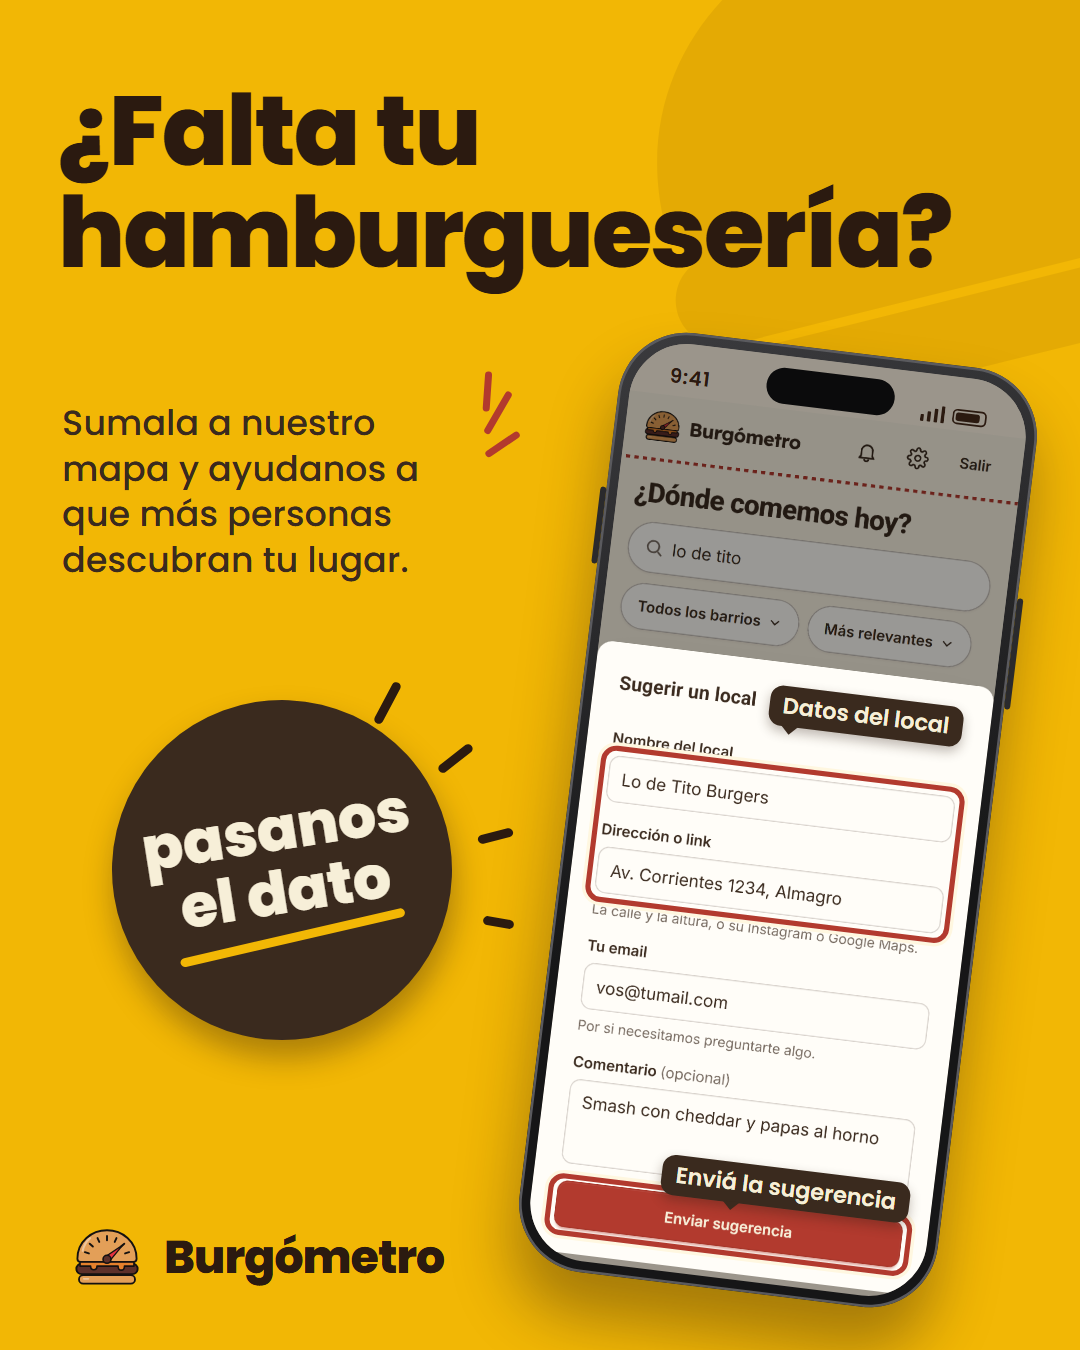
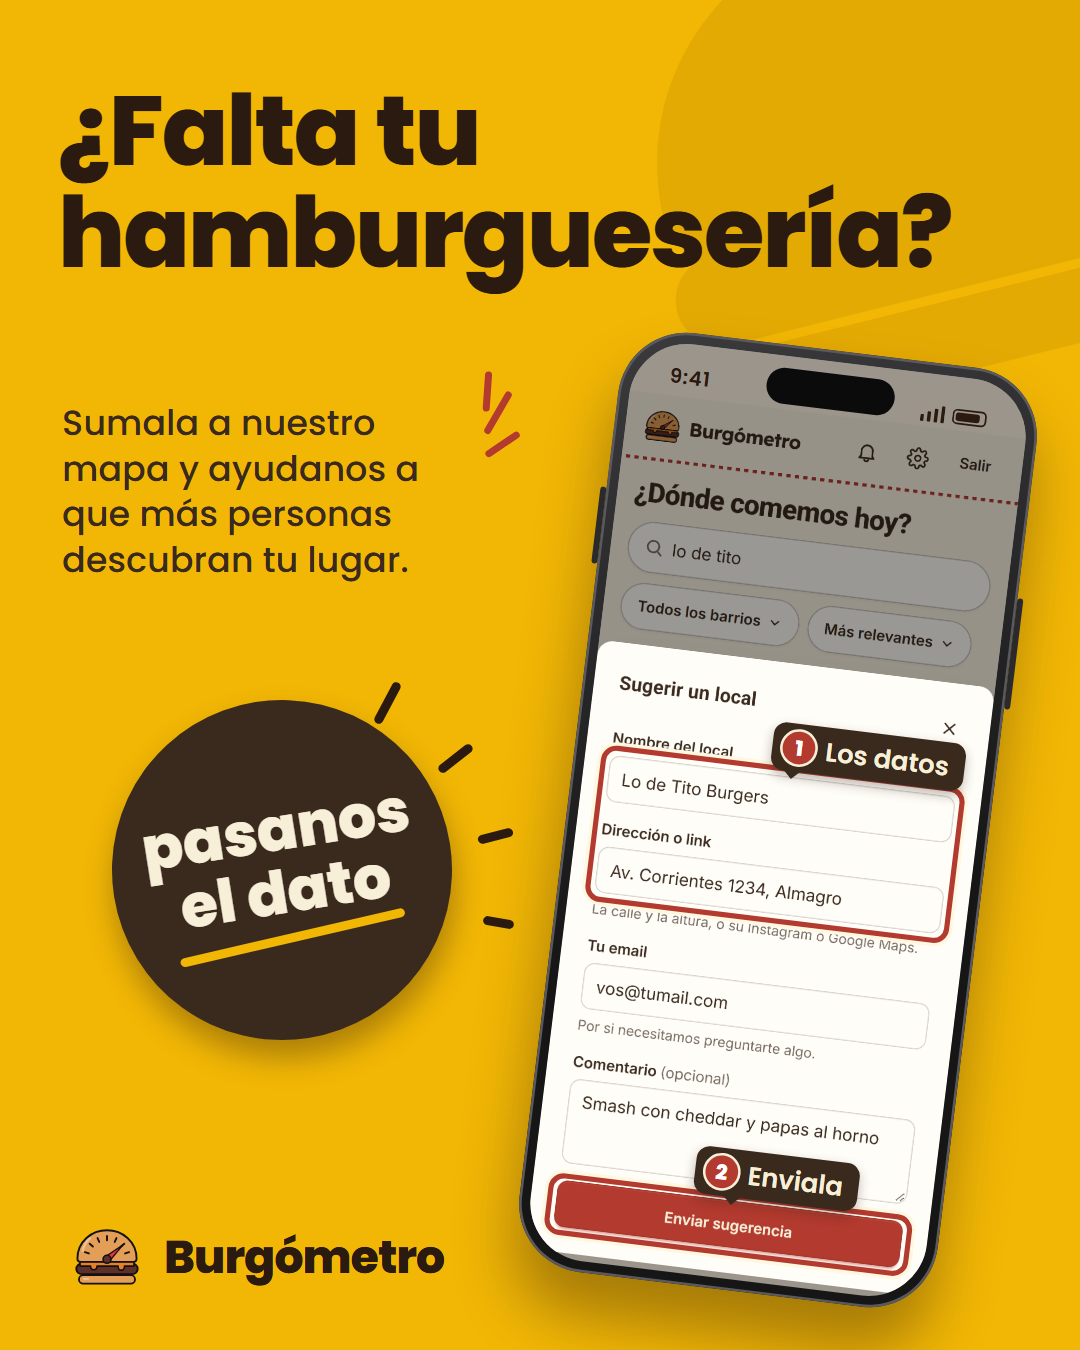
Post de Instagram: instalar en Android (claro) y en iPhone, pasos en rojo y repaso de las láminas
La lámina de instalar se separa en Android (tema claro, pasos reales de Chrome) y iPhone
(Safari: 3 puntitos, Compartir, Agregar a Inicio). Los pasos van numerados en rojo en los
globos, más grandes, y se reubicaron los que tapaban texto de las capturas.

Changed region(s): [[0.7028, 0.4978, 0.9167, 0.5911], [0.6111, 0.84, 0.8556, 0.9333]]

diff --git a/docs/post-ig/README.md b/docs/post-ig/README.md
@@ -1,13 +1,14 @@
 # Carrusel de Instagram (#272)
 
-Nueve láminas en dos formatos: `laminas/` en 4:5 (1080×1350, el del carrusel del feed) y `laminas-9x16/` en 9:16 (1080×1920, para historias, con lo importante dentro de la zona segura: sin nada clave en los ~250 px de arriba y abajo). El celu se ve entero en las dos con las funciones principales de Burgómetro. Estilo C
+Diez láminas en dos formatos: `laminas/` en 4:5 (1080×1350, el del carrusel del feed) y `laminas-9x16/` en 9:16 (1080×1920, para historias, con lo importante dentro de la zona segura: sin nada clave en los ~250 px de arriba y abajo). El celu se ve entero en las dos con las funciones principales de Burgómetro. Estilo C
 (amarillo tipográfico), con la plantilla que armó Juan.
 
 | Lámina | Archivo | Qué muestra |
 |---|---|---|
 | 1 | `laminas/01-portada.png` | Portada, con Explorar |
 | 2 | `laminas/02-sugerir-local.png` | Sugerir un local |
-| 3 | `laminas/03-instalar.png` | Instalar la web: Android (Chrome) tres puntitos > «Instalar y crear acceso directo» > «Instalar»; iPhone (Safari) Compartir > «Agregar a inicio» (menú ilustrado, con los nombres reales de Chrome) |
+| 3a | `laminas/03a-instalar-android.png` | Android (Chrome): 3 puntitos de arriba > «Instalar y crear acceso directo» > «Instalar» (menú ilustrado en tema claro, con los nombres reales) |
+| 3b | `laminas/03b-instalar-iphone.png` | iPhone (Safari): 3 puntitos de abajo > «Compartir» > «Agregar a Inicio» (menú y hoja de compartir ilustrados) |
 | 4 | `laminas/04-recorrido.png` | Armar un recorrido (Tour) |
 | 5 | `laminas/05-buscar-gente.png` | Buscar gente (nombres de ejemplo) |
 | 6 | `laminas/06-avatar.png` | Armar tu hamburguesa |
@@ -31,6 +32,6 @@ en Buenos Aires y alrededores».
 
 La lámina 9 muestra «Compartir en historias» (#278), ya en main; el local, el usuario y la reseña de la imagen son inventados y la imagen se generó con el mismo código de la web.
 
-Las láminas 3 y 9 asumen que el manifest (#281) ya está deployado: sin él, Chrome en Android solo ofrece
+Las láminas 3a, 3b y 9 asumen que el manifest (#281) ya está deployado: sin él, Chrome en Android solo ofrece
 «Agregar a la pantalla principal», con un ícono común, y no «Instalar». **No publiques el post antes del deploy del manifest.**
-En iPhone (Safari) «Compartir > Agregar a inicio» ya funciona hoy. Los nombres son los del manifest: la app se llama «Burgómetro».
+En iPhone (Safari) «Compartir > Agregar a inicio» ya funciona hoy. Los pasos de Android e iPhone los verificó Juan en sus celulares. Los pasos van numerados en rojo y los globos están pensados para no tapar los textos importantes de la captura.
